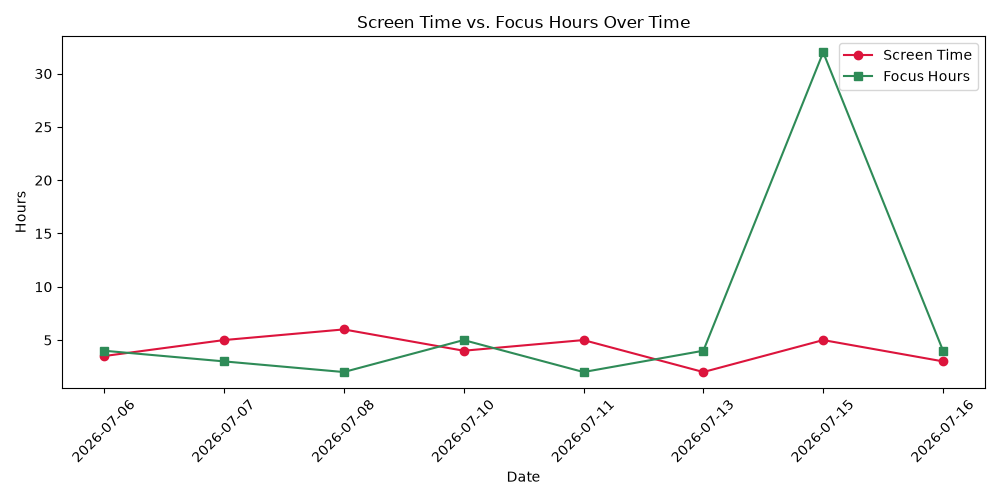
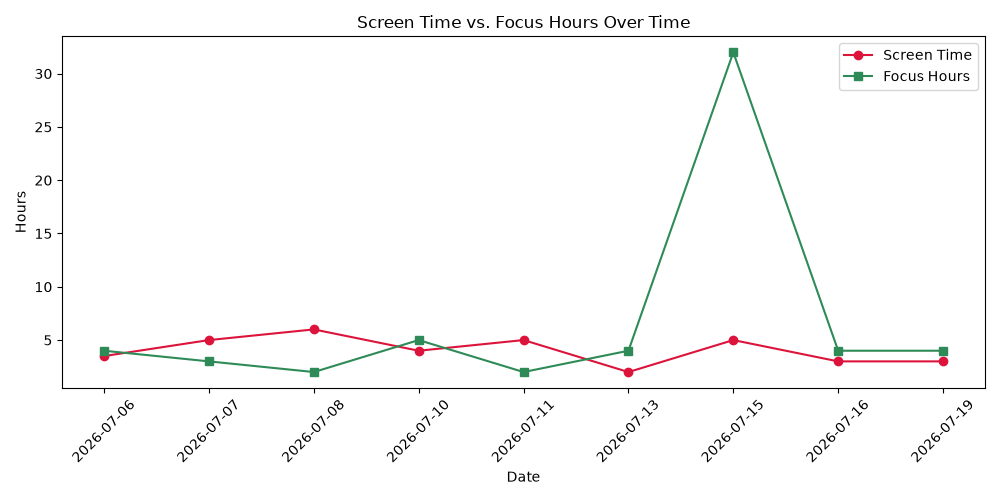
Add data and force refresh for day 7

diff --git a/README.md b/README.md
@@ -11,3 +11,5 @@
 - Day 7 Update: 2026-07-15 14:11:21
 
 - Day 7 Update: 2026-07-16 22:41:33
+
+- Day 7 Update: 2026-07-19 00:14:51